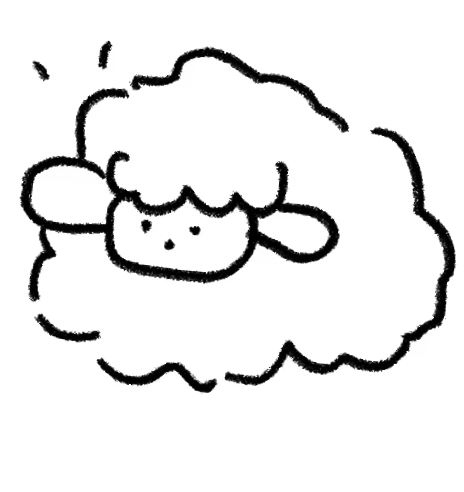
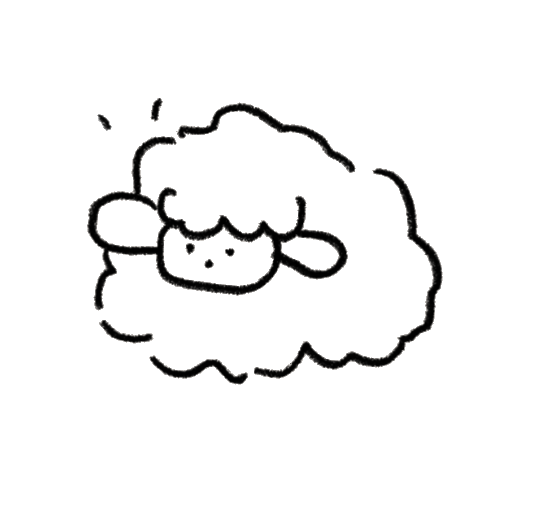
Add files via upload

Changed region(s): [[0.0302, 0.0915, 0.9957, 0.8232], [0.2112, 0.061, 0.2414, 0.1524], [0.0603, 0.122, 0.1207, 0.1829]]

diff --git a/app.js b/app.js
@@ -10,6 +10,11 @@ const CONFIG = {
 const PROLOGUE = `hi！✧｡٩(ˊᗜˋ)و✧*｡我是你的AI人才sourcing助手咩咩 Ꮚ･ꈊ･Ꮚ
 最近关注哪所高校，或者哪个实验室？让我来为你绘制专属人才地图！找到科研大佬，并帮你与他们建立联系和初步沟通！₍₍ ᕕ(´ ω\` )ᕗ⁾⁾`;
 
+const AVATAR = {
+  ai:   'sheep.png',
+  user: 'user-avatar.png',
+};
+
 /* ============================================================
    状态管理 - 完整保存含消息内容
    ============================================================ */
@@ -107,12 +112,29 @@ function appendMessageDOM(role, content, animate = true) {
   container.style.display = 'flex';
 
   const div = document.createElement('div');
-  div.className = `message ${role}`;
+  div.className = `message ${role}` + (animate ? ' msg-pop-in' : '');
   if (!animate) div.style.animation = 'none';
+
+  const row = document.createElement('div');
+  row.className = 'msg-row';
+
+  const avatar = document.createElement('img');
+  avatar.className = 'msg-avatar';
+  avatar.src = role === 'user' ? AVATAR.user : AVATAR.ai;
+  avatar.alt = '';
+
   const bubble = document.createElement('div');
   bubble.className = 'bubble';
   bubble.textContent = content;
-  div.appendChild(bubble);
+
+  if (role === 'user') {
+    row.appendChild(bubble);
+    row.appendChild(avatar);
+  } else {
+    row.appendChild(avatar);
+    row.appendChild(bubble);
+  }
+  div.appendChild(row);
   container.appendChild(div);
   if (animate) scrollToBottom();
   return bubble;
@@ -126,7 +148,11 @@ function appendTypingIndicator() {
   const div = document.createElement('div');
   div.className = 'message ai typing';
   div.id = 'typing-indicator';
-  div.innerHTML = `<div class="bubble"><div class="typing-dots"><span></span><span></span><span></span></div></div>`;
+  div.innerHTML = `
+    <div class="msg-row">
+      <img class="msg-avatar" src="${AVATAR.ai}" alt="" />
+      <div class="bubble"><div class="typing-dots"><span></span><span></span><span></span></div></div>
+    </div>`;
   container.appendChild(div);
   scrollToBottom();
 }
@@ -168,13 +194,20 @@ function beginConversation() {
   const chat = getChat(currentChatId);
   if (!chat) return;
 
+  hideSplash();
+  const container = document.getElementById('messages');
+  container.style.display = 'flex';
+  container.innerHTML = '';
+
   const hasPrologue = chat.messages.some(m => m.role === 'ai' && m.content === PROLOGUE);
   if (!hasPrologue) {
     chat.messages.push({ role: 'ai', content: PROLOGUE });
     saveChats();
+    appendMessageDOM('ai', PROLOGUE, true);
+  } else {
+    appendMessageDOM('ai', PROLOGUE, false);
   }
 
-  renderMessages(chat.messages);
   document.getElementById('user-input').focus();
 }
 

diff --git a/style.css b/style.css
@@ -184,34 +184,30 @@ html, body { height: 100%; font-family: var(--font); background: var(--bg-main);
 .sheep-start:hover { transform: scale(1.04); }
 .sheep-start:active { transform: scale(0.97); }
 
-/* 与页面同色底 + multiply，白底羊图融入米色背景 */
+/* 圆形裁切，去掉 PNG 外围白方框 */
 .sheep-blend {
-  display: flex;
-  align-items: center;
-  justify-content: center;
   width: 200px;
   height: 200px;
-  background: var(--bg-main);
   border-radius: 50%;
-  isolation: isolate;
+  overflow: hidden;
+  background: var(--bg-main);
+  flex-shrink: 0;
 }
 
 .sheep-img {
-  width: 200px;
-  height: 200px;
-  object-fit: contain;
-  mix-blend-mode: multiply;
+  width: 100%;
+  height: 100%;
+  object-fit: cover;
+  object-position: center;
   animation: float 3.5s ease-in-out infinite;
   display: block;
 }
 
 .sheep-svg {
-  width: 200px;
-  height: 200px;
+  width: 100%;
+  height: 100%;
   display: none;
-  mix-blend-mode: multiply;
   animation: float 3.5s ease-in-out infinite;
-  opacity: 0.92;
 }
 
 .splash-hint {
@@ -257,21 +253,58 @@ html, body { height: 100%; font-family: var(--font); background: var(--bg-main);
   margin: 0 auto;
 }
 
-.message { display: flex; flex-direction: column; gap: 2px; animation: msg-in 0.2s ease; }
-
-@keyframes msg-in {
-  from { opacity: 0; transform: translateY(6px); }
-  to   { opacity: 1; transform: translateY(0); }
+.message {
+  display: flex;
+  width: 100%;
+  margin-bottom: 14px;
 }
 
-.message.user { align-items: flex-end; }
-.message.ai   { align-items: flex-start; }
+.message.ai   { justify-content: flex-start; }
+.message.user { justify-content: flex-end; }
+
+.msg-row {
+  display: flex;
+  align-items: flex-end;
+  gap: 10px;
+  max-width: 88%;
+}
+
+.message.user .msg-row { flex-direction: row; }
+
+.msg-avatar {
+  width: 42px;
+  height: 42px;
+  border-radius: 50%;
+  object-fit: cover;
+  object-position: center;
+  flex-shrink: 0;
+  background: var(--bg-main);
+  box-shadow: 0 1px 4px rgba(0, 0, 0, 0.06);
+}
+
+.message.msg-pop-in {
+  animation: msg-pop 0.4s cubic-bezier(0.22, 1.12, 0.48, 1);
+}
+
+@keyframes msg-pop {
+  from {
+    opacity: 0;
+    transform: translateY(14px) scale(0.94);
+  }
+  to {
+    opacity: 1;
+    transform: translateY(0) scale(1);
+  }
+}
 
 .bubble {
-  max-width: 75%; padding: 12px 16px;
+  max-width: min(100%, 520px);
+  padding: 12px 16px;
   border-radius: 18px;
-  font-size: 15px; line-height: 1.65;
-  white-space: pre-wrap; word-break: break-word;
+  font-size: 15px;
+  line-height: 1.65;
+  white-space: pre-wrap;
+  word-break: break-word;
 }
 
 .message.user .bubble { background: var(--bg-msg-user); color: #fff; border-bottom-right-radius: 4px; }
